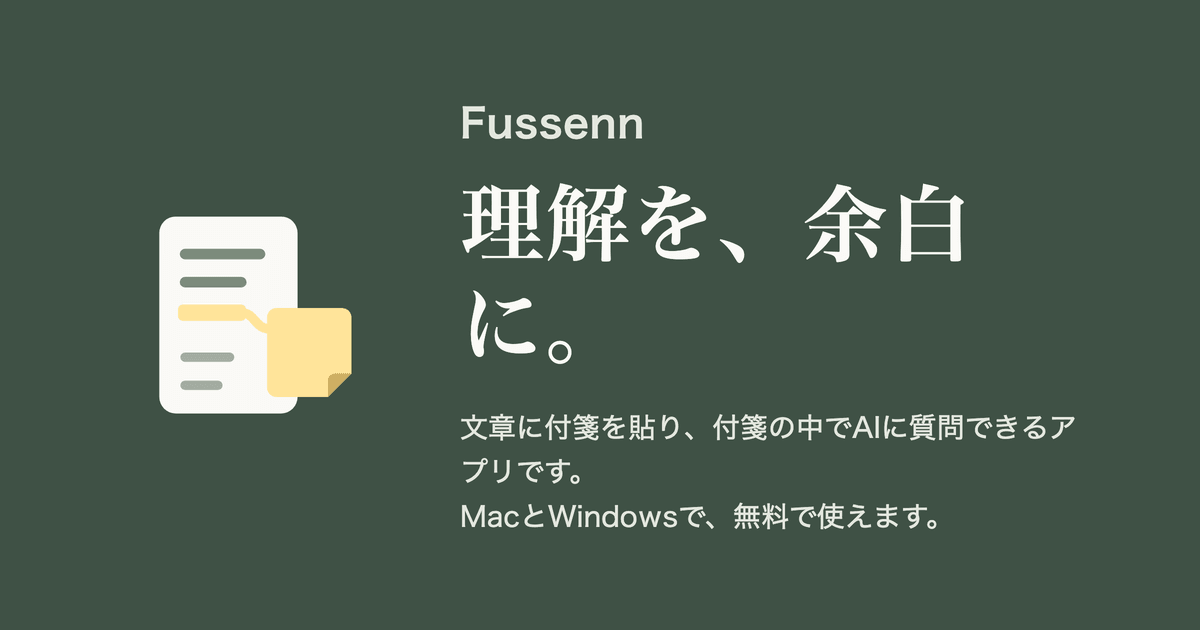
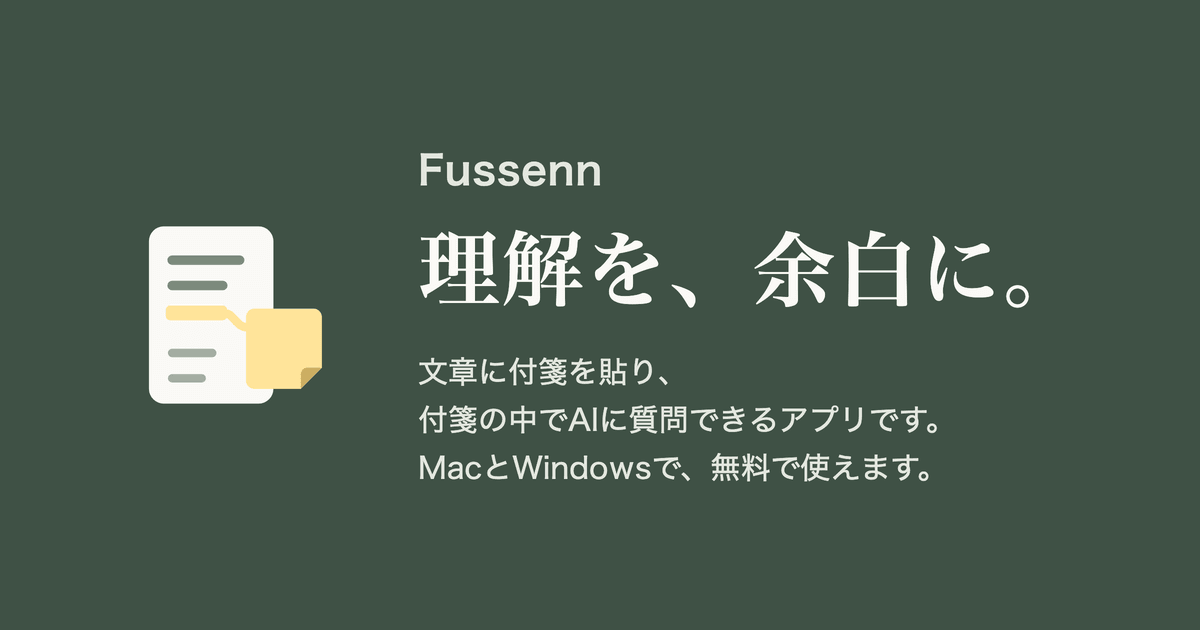
Keep the sharing image's tagline on one line
The picture shown when the download page is shared broke the tagline after
「余白」 and the description inside 「アプリ」. The text column is wider, the
description breaks where it is written to, and the test that draws the
image now checks the line counts.

Changed region(s): [[0.3392, 0.1508, 0.8942, 0.8444], [0.1233, 0.3317, 0.3083, 0.6635]]

diff --git a/tests/site/images.spec.ts b/tests/site/images.spec.ts
@@ -165,12 +165,19 @@ test("draws the sharing image", async ({ page }) => {
   const icon = readFileSync("public/brand/fussenn.svg", "utf8");
   await page.setViewportSize({ width: 1200, height: 630 });
   await page.setContent(`<!doctype html><html lang="ja"><meta charset="utf-8"><style>
-    body { margin: 0; width: 1200px; height: 630px; background: #3f5145; color: #faf9f6; font-family: "Hiragino Sans", "Yu Gothic UI", sans-serif; display: grid; grid-template-columns: 300px 1fr; align-items: center; gap: 64px; padding: 0 96px; box-sizing: border-box; }
-    svg { width: 300px; height: 300px; }
+    body { margin: 0; width: 1200px; height: 630px; background: #3f5145; color: #faf9f6; font-family: "Hiragino Sans", "Yu Gothic UI", sans-serif; display: grid; grid-template-columns: 270px 1fr; align-items: center; gap: 56px; padding: 0 92px; box-sizing: border-box; }
+    svg { width: 270px; height: 270px; }
     .name { font-size: 40px; font-weight: 600; letter-spacing: .02em; margin: 0 0 18px; }
-    h1 { font-family: "Hiragino Mincho ProN", "Yu Mincho", serif; font-weight: 600; font-size: 84px; line-height: 1.2; margin: 0 0 30px; letter-spacing: .02em; }
-    p { font-size: 28px; line-height: 1.6; margin: 0; color: #e4e8df; }
-  </style><body>${icon}<div><p class="name">Fussenn</p><h1>理解を、余白に。</h1><p>文章に付箋を貼り、付箋の中でAIに質問できるアプリです。<br>MacとWindowsで、無料で使えます。</p></div></body></html>`);
+    h1 { font-family: "Hiragino Mincho ProN", "Yu Mincho", serif; font-weight: 600; font-size: 82px; line-height: 1.2; margin: 0 0 30px; letter-spacing: .02em; white-space: nowrap; }
+    p { font-size: 30px; line-height: 1.6; margin: 0; color: #e4e8df; }
+  </style><body>${icon}<div><p class="name">Fussenn</p><h1>理解を、余白に。</h1><p id="about">文章に付箋を貼り、<br>付箋の中でAIに質問できるアプリです。<br>MacとWindowsで、無料で使えます。</p></div></body></html>`);
+  // The lines break only where they are written to: the tagline on one line, the description on three.
+  const fits = await page.evaluate(() => {
+    const lines = (el: Element) => { const range = document.createRange(); range.selectNodeContents(el); return new Set([...range.getClientRects()].map((r) => Math.round(r.top))).size; };
+    const h1 = document.querySelector("h1")!;
+    return { tagline: lines(h1), about: lines(document.querySelector("#about")!), inside: h1.getBoundingClientRect().right <= 1200 - 60 };
+  });
+  expect(fits).toEqual({ tagline: 1, about: 3, inside: true });
   const png = await page.screenshot({ clip: { x: 0, y: 0, width: 1200, height: 630 } });
   await sharp(png).resize({ width: 1200 }).png({ compressionLevel: 9, palette: true, quality: 90 }).toFile("site/og.png");
 });
